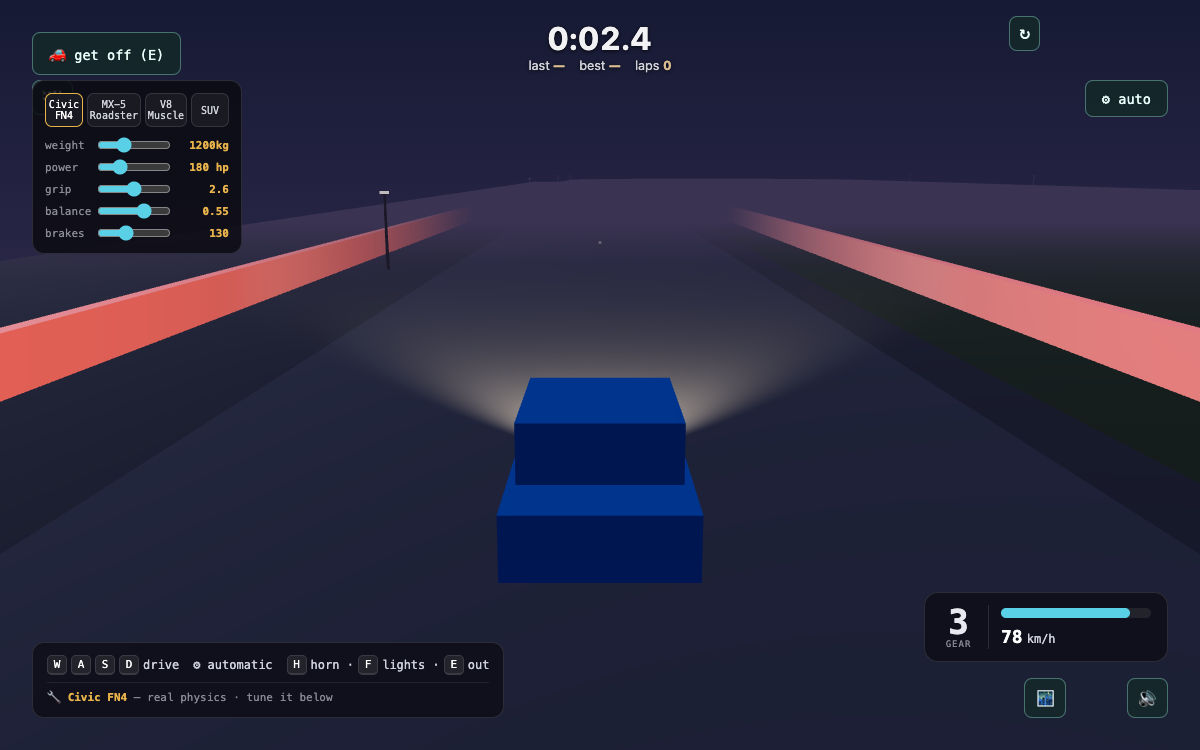
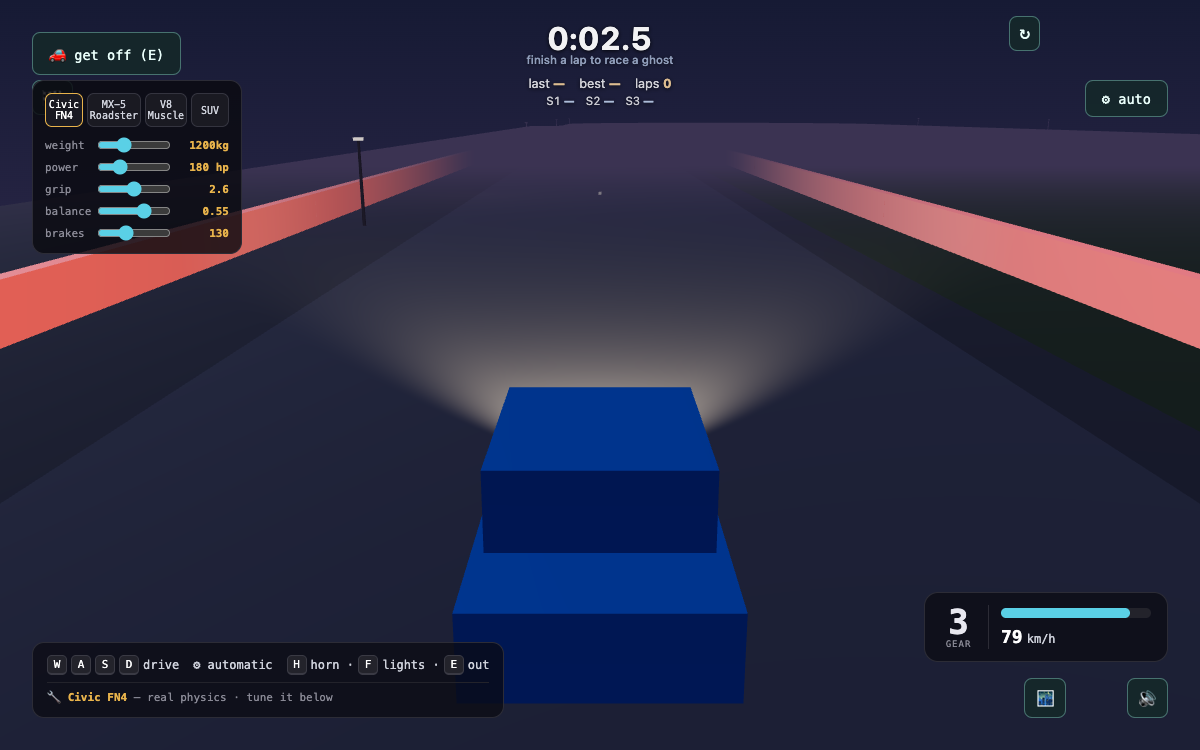
Kill z-fighting shimmer (likely the 'shake') + balance the camera
User is on a 60Hz display and it shakes even on a steady straight, where I
measure the car pose as rock-stable — so it's not motion/refresh, it's visual
z-fighting shimmer that reads as shake:
- Road was drawn as overlapping coplanar quads (len+0.6) → the overlap strips
  z-fight and flicker as you move. Draw them edge-to-edge (exact len).
- The circuit spans ~600m; with the default 0.1 near plane depth precision is
  poor far away and the coplanar road/line/grass decals z-fight in the distance.
  Enable a logarithmic depth buffer + near 0.3 / far 1200. Verified 60fps, 0
  spikes (perf actually cleaner).
- Camera to a balanced middle (exp(-dt*20)) between the laggy (12) and shaky
  (32) extremes.

Changed region(s): [[0.0, 0.0307, 1.0, 0.552], [0.37, 0.4907, 0.6475, 0.9507], [0.8017, 0.46, 0.8325, 0.4907]]

diff --git a/src/PhysicsCar.jsx b/src/PhysicsCar.jsx
@@ -498,8 +498,8 @@ export default function PhysicsCar({ vehiclesRef, active, onExit, profile = DEFA
     // car body (VehicleRig uses exp(-dt*32)) — if the camera is softer than the
     // body, the car surges around in the frame at speed and reads as lag. Matched
     // rates keep the car locked in view; the body proves this rate is judder-free.
-    camera.position.lerp(tmp.set(p.x - fx * back, p.y + high, p.z - fz * back), 1 - Math.exp(-dt * 32))
-    camLook.current.lerp(tmp.set(p.x + fx * 2, p.y + 0.6, p.z + fz * 2), 1 - Math.exp(-dt * 30))
+    camera.position.lerp(tmp.set(p.x - fx * back, p.y + high, p.z - fz * back), 1 - Math.exp(-dt * 20))
+    camLook.current.lerp(tmp.set(p.x + fx * 2, p.y + 0.6, p.z + fz * 2), 1 - Math.exp(-dt * 22))
     camera.lookAt(camLook.current)
     camera.updateMatrixWorld()
     camera.matrixWorldInverse.copy(camera.matrixWorld).invert()

diff --git a/src/App.jsx b/src/App.jsx
@@ -748,7 +748,11 @@ export default function App() {
       </div>
       <Canvas
         dpr={[1, 1.25]}
-        camera={{ position: [-8.23, 5.2, 1.92], fov: 45 }}
+        // the circuit spans ~600m; with the default 0.1 near plane, depth
+        // precision is poor far away and the coplanar road/line/grass decals
+        // z-fight and shimmer as you move. A log depth buffer fixes it.
+        gl={{ logarithmicDepthBuffer: true }}
+        camera={{ position: [-8.23, 5.2, 1.92], fov: 45, near: 0.3, far: 1200 }}
         onCreated={() => {
           // scene is live — fade the static boot screen away
           const b = document.getElementById('boot')

diff --git a/src/Room.jsx b/src/Room.jsx
@@ -944,7 +944,9 @@ function TrackInstances({ daytime }) {
       d.rotation.set(0, 0, 0)
       d.rotateY(-s.ang)
       d.rotateX(-Math.PI / 2)
-      d.scale.set(s.len + 0.6, TRACK_W, 1)
+      // exact length (was +0.6) so segments meet edge-to-edge instead of
+      // overlapping — overlapping coplanar quads z-fight and shimmer as you move
+      d.scale.set(s.len, TRACK_W, 1)
       d.updateMatrix()
       road.current.setMatrixAt(i, d.matrix)
     })
